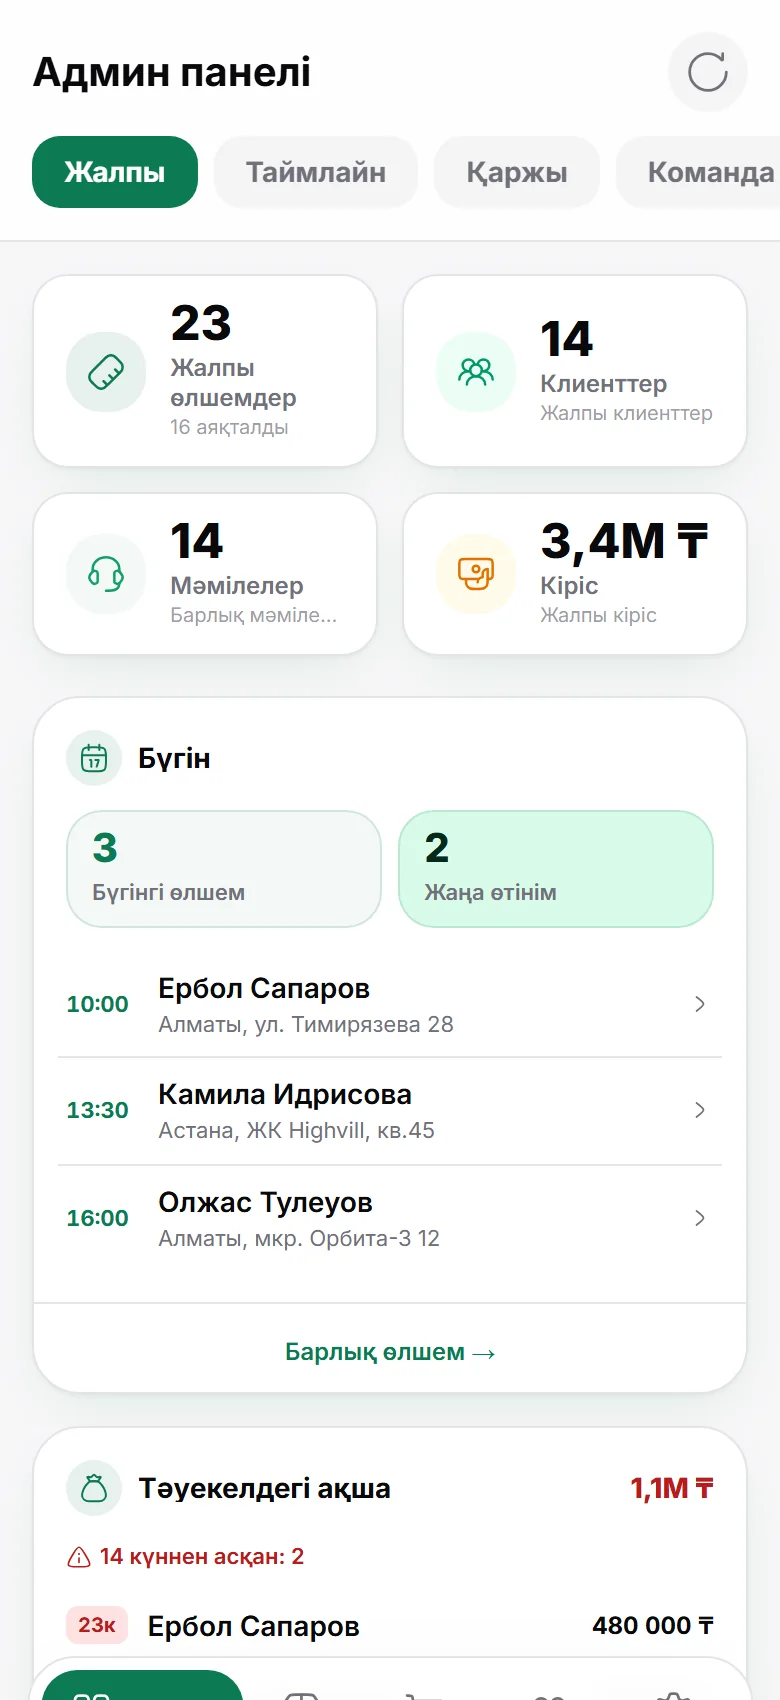
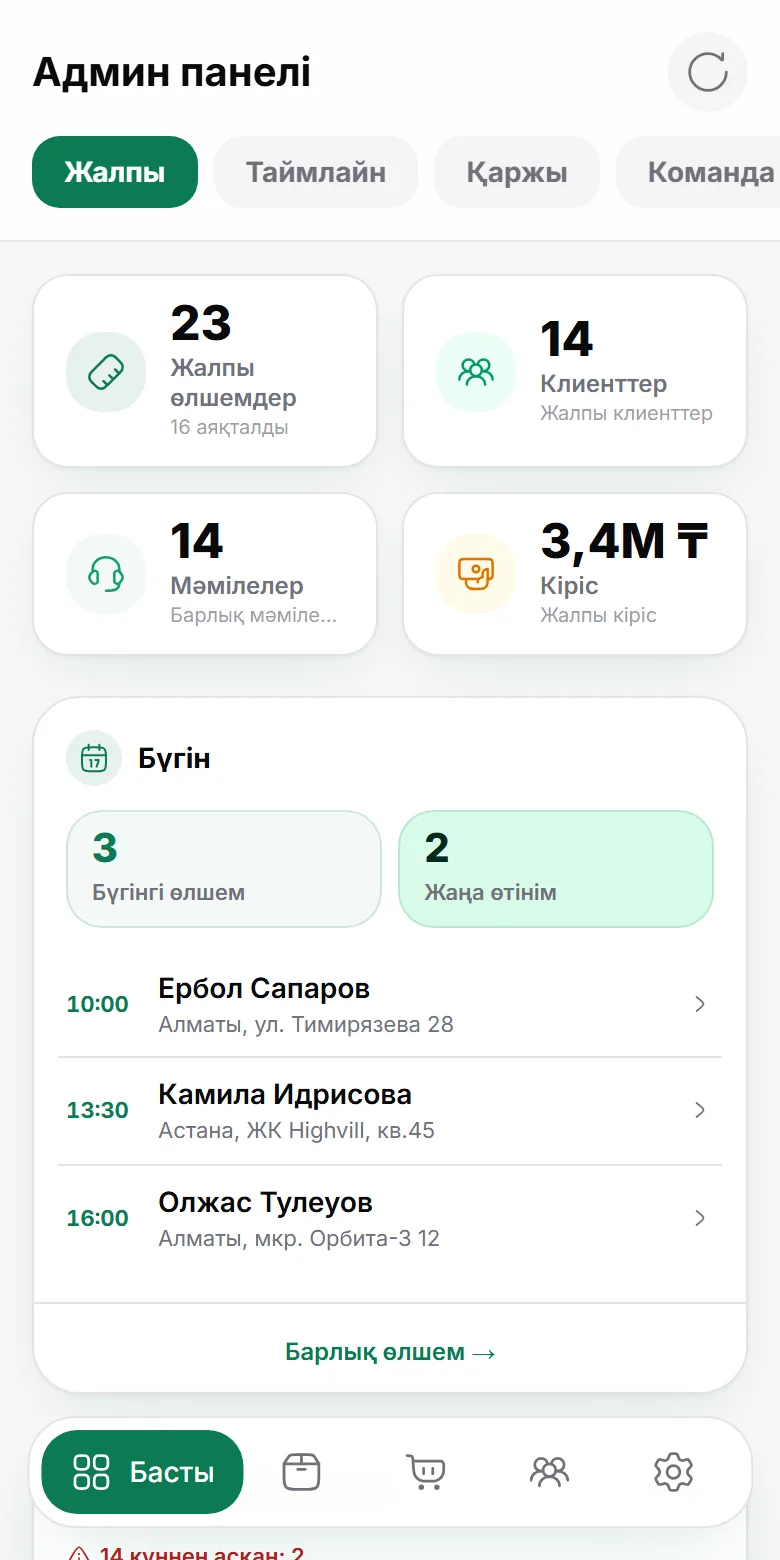
fix(landing): show the whole app screen in the hero, not a crop
The previous capture was cropped to roughly half the app width and cut through
the third widget. Reading it as a window onto something larger was the wrong
call — the hero should show the product, whole.

- Recapture the full screen: sidebar, header, tabs, all four stat tiles, all
  three widgets, the revenue chart and the funnel. 1440x900 on desktop,
  390x780 on mobile, both at 2x.
- Match the frame's aspect-ratio to the capture so nothing is letterboxed or
  cut, and widen it to 980px.
- Drop the pan. It existed because the frame was shorter than the image; with
  the whole screen in view there is nothing to pan to, and panning would put
  content back out of sight. Replaced with a 9s float that moves the frame,
  not the content. Still frozen under prefers-reduced-motion.
- Shorten the bottom fade to the last 12% and move it from the frame to the
  image, so it softens the edge without hiding a row.

Also levels the widget row it captures: RecentMeasurementsWidget showed 6 rows
and towered over Сегодня and Деньги на риске beside it, leaving a hole in the
middle of the layout. 4 rows brings the three cards level.

Verified at 390/560/561/768/1440 in both locales: correct asset per breakpoint
and language, float and fade applied, no horizontal overflow, no failed
requests, language switch still repoints the picture. Build passes.

Claude-Session: https://claude.ai/code/session_015qVqa9bECbSA8wrwYr87Cs

diff --git a/gardina-frontend/public/styles.css b/gardina-frontend/public/styles.css
@@ -170,7 +170,7 @@ button:focus-visible {
     scroll-behavior: auto;
   }
 
-  .hero-shot-img {
+  .hero-shot {
     animation: none;
   }
 
@@ -907,45 +907,42 @@ body.nav-open .whatsapp-float {
 }
 
 /* ---- Hero product shot ----
-   A real screenshot of the admin overview, cropped to roughly half the app
-   width so the UI renders near 1:1 instead of being shrunk to illegibility.
-   The frame is shorter than the image, so the picture can drift upward inside
-   it, and the bottom dissolves into the page instead of ending on a hard edge. */
+   A real capture of the admin overview, whole screen: sidebar, header, tabs
+   and every widget, nothing cropped. The frame matches the capture's aspect
+   exactly so it is never letterboxed or cut. */
 .hero-shot {
   position: relative;
   z-index: 1;
   width: 100%;
-  max-width: 920px;
+  max-width: 980px;
   margin: 0;
-  aspect-ratio: 912 / 560;
+  aspect-ratio: 1440 / 900;
   overflow: hidden;
   background: var(--surface);
   border: 1px solid var(--line-2);
   border-radius: var(--r-xl);
-
-  /* How far the image can travel: (image height - frame height) / image height.
-     912x880 image in a 912x560 frame → 320/880. */
-  --shot-travel: -36.4%;
-
-  /* The fade must cover the frame's own border and corners too, so it lives on
-     the frame rather than on the <img>. mask-origin defaults to border-box. */
-  -webkit-mask-image: linear-gradient(to bottom, #000 52%, rgba(0, 0, 0, 0.55) 76%, transparent 100%);
-  mask-image: linear-gradient(to bottom, #000 52%, rgba(0, 0, 0, 0.55) 76%, transparent 100%);
+  box-shadow:
+    0 40px 90px -30px rgba(10, 15, 13, 0.26),
+    0 12px 28px -12px rgba(10, 15, 13, 0.1);
+  animation: heroShotFloat 9s ease-in-out infinite;
 }
 
 .hero-shot-img {
   display: block;
   width: 100%;
-  height: auto;
-  will-change: transform;
-  animation: heroShotPan 26s var(--ease) infinite;
+  height: 100%;
+  object-fit: cover;
+  object-position: top center;
+  /* The capture ends where the viewport did, so soften only the last sliver —
+     enough to melt into the page, not enough to hide a row. */
+  -webkit-mask-image: linear-gradient(to bottom, #000 88%, transparent 100%);
+  mask-image: linear-gradient(to bottom, #000 88%, transparent 100%);
 }
 
-/* Holds at the top, drifts down to the widgets below the fold, holds, returns. */
-@keyframes heroShotPan {
-  0%, 14%   { transform: translateY(0); }
-  48%, 62%  { transform: translateY(var(--shot-travel)); }
-  100%      { transform: translateY(0); }
+/* Slow drift, so the hero is alive without anything moving out of view. */
+@keyframes heroShotFloat {
+  0%, 100% { transform: translateY(0); }
+  50%      { transform: translateY(-9px); }
 }
 
 /* ============ SHARED SECTION HEADERS ============ */
@@ -2436,9 +2433,8 @@ footer {
      both differ. max-width keeps a 390px-wide capture from being blown up:
      above it the desktop shot scales down instead, which stays sharp. */
   .hero-shot {
-    aspect-ratio: 390 / 470;
-    --shot-travel: -44.7%;
-    max-width: 420px;
+    aspect-ratio: 390 / 780;
+    max-width: 340px;
   }
 
   .container {

diff --git a/gardina-frontend/public/landing.html b/gardina-frontend/public/landing.html
@@ -218,7 +218,7 @@
               <source media="(max-width: 560px)" data-shot="mobile-png" srcset="/images/hero-app-mobile-kz.png">
               <source type="image/webp" data-shot="desktop-webp" srcset="/images/hero-app-desktop-kz.webp">
               <img class="hero-shot-img" data-shot="desktop-png" src="/images/hero-app-desktop-kz.png"
-                   width="912" height="880" decoding="async" fetchpriority="high"
+                   width="1440" height="900" decoding="async" fetchpriority="high"
                    data-i18n-attr-alt="hero.shotAlt"
                    alt="Gardina жүйесі: бүгінгі өлшемдер, тәуекелдегі ақша және түсім бір экранда">
             </picture>

diff --git a/gardina-frontend/src/components/admin/widgets/RecentMeasurementsWidget.jsx b/gardina-frontend/src/components/admin/widgets/RecentMeasurementsWidget.jsx
@@ -17,7 +17,9 @@ const STATUS_DOT = {
     scheduled: 'bg-primary',
 };
 
-const RecentMeasurementsWidget = ({ measurements = [], loading, limit = 6 }) => {
+// 4 rows keeps this card level with Сегодня and Деньги на риске beside it;
+// at 6 it towered over them and left a hole in the row.
+const RecentMeasurementsWidget = ({ measurements = [], loading, limit = 4 }) => {
     const { t } = useI18n();
     const navigate = useNavigate();
 
